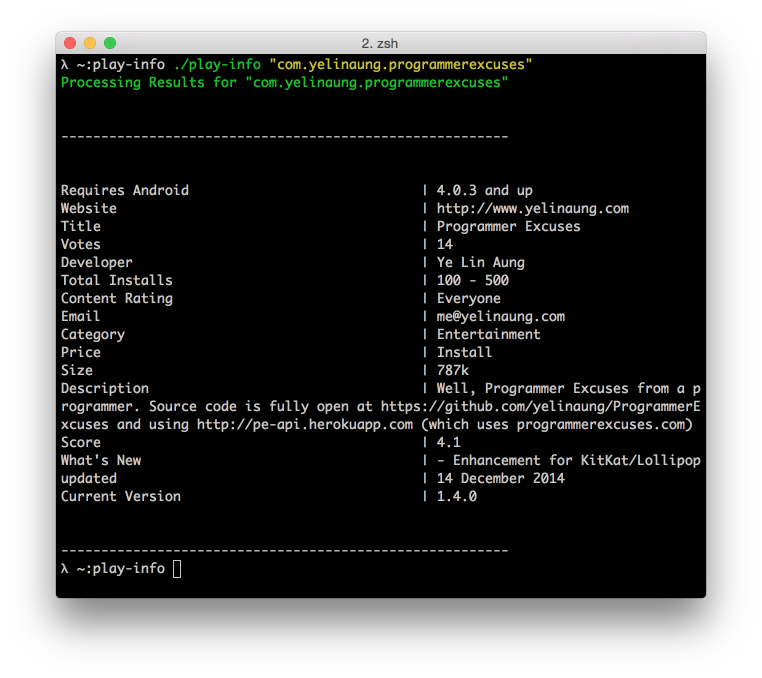
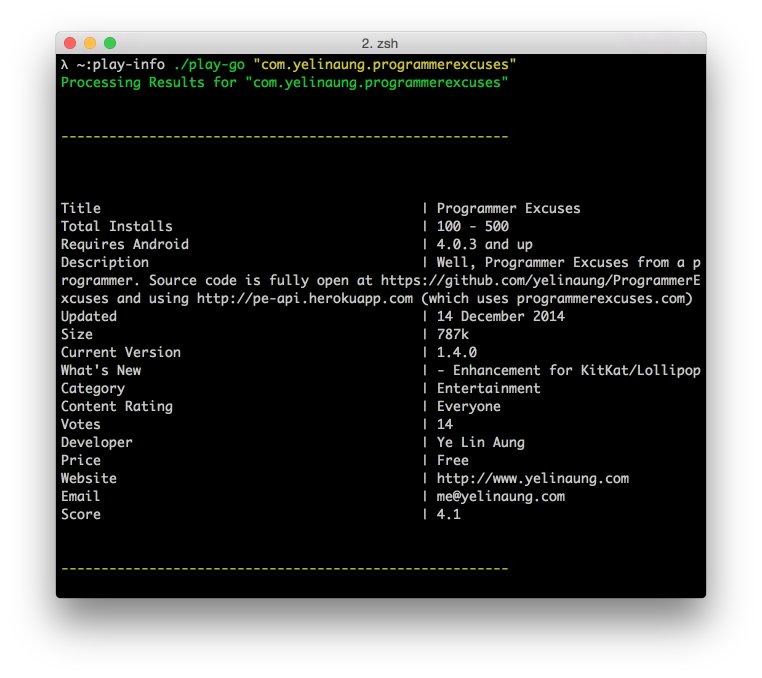
fix spelling and new screenshot

Changed region(s): [[0.0604, 0.2788, 0.9357, 0.7743], [0.3018, 0.0619, 0.6942, 0.1239], [0.0906, 0.8053, 0.2415, 0.8673]]

diff --git a/main.go b/main.go
@@ -65,7 +65,7 @@ func GetData(pkgName string) {
 		fieldName := TrimSpace(s.Find(".title").Text())
 		switch fieldName {
 		case "Updated":
-			tmp["updated"] = s.Find(".content").Text()
+			tmp["Updated"] = s.Find(".content").Text()
 		case "Installs":
 			tmp["Total Installs"] = s.Find(".content").Text()
 		case "Size":
